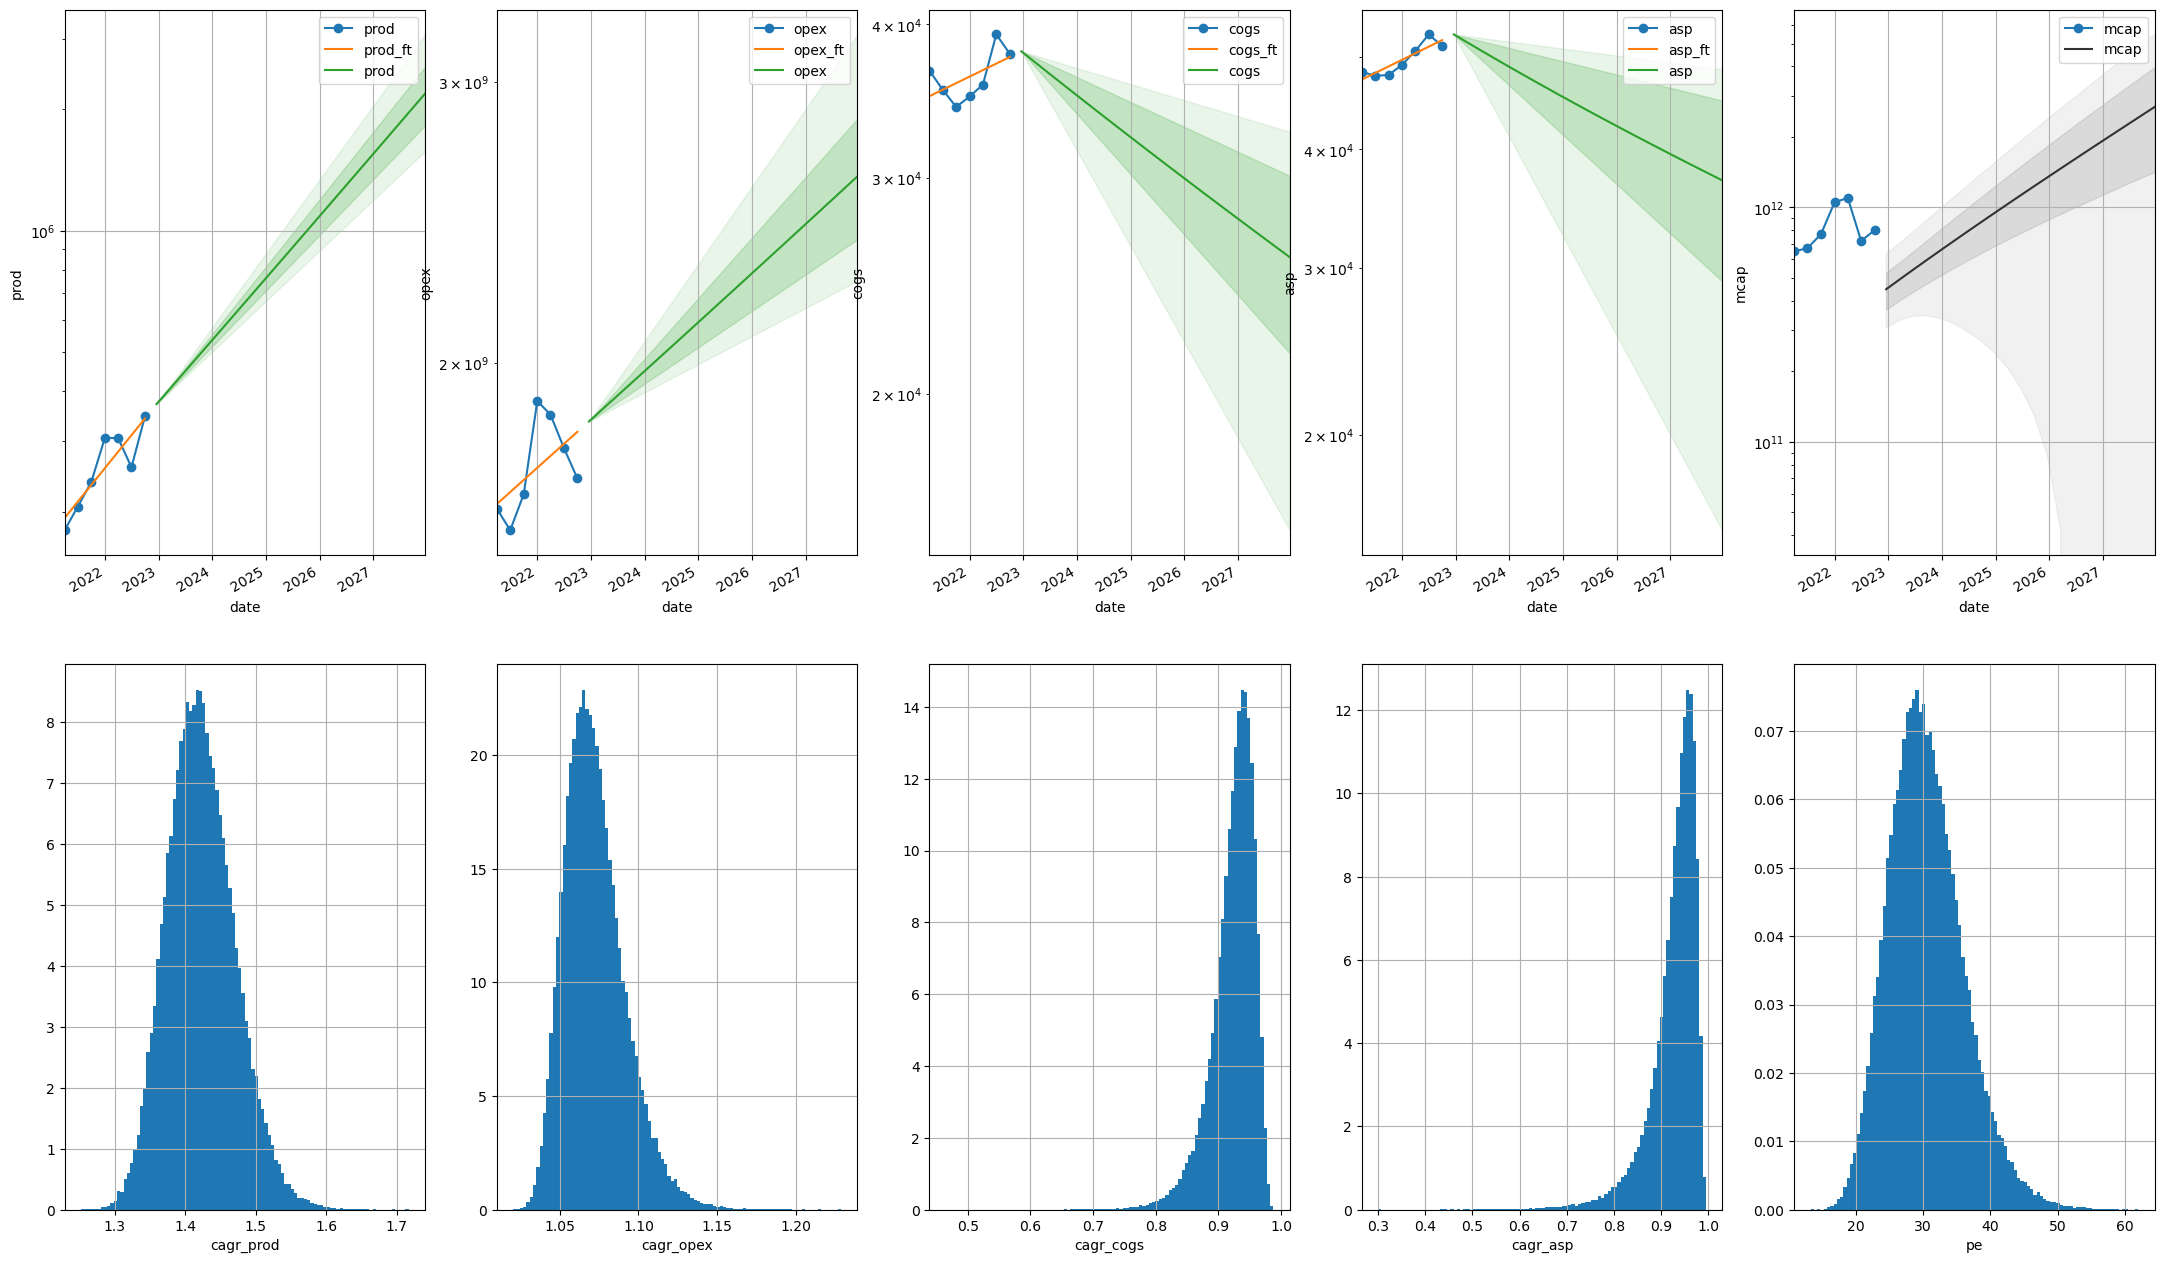
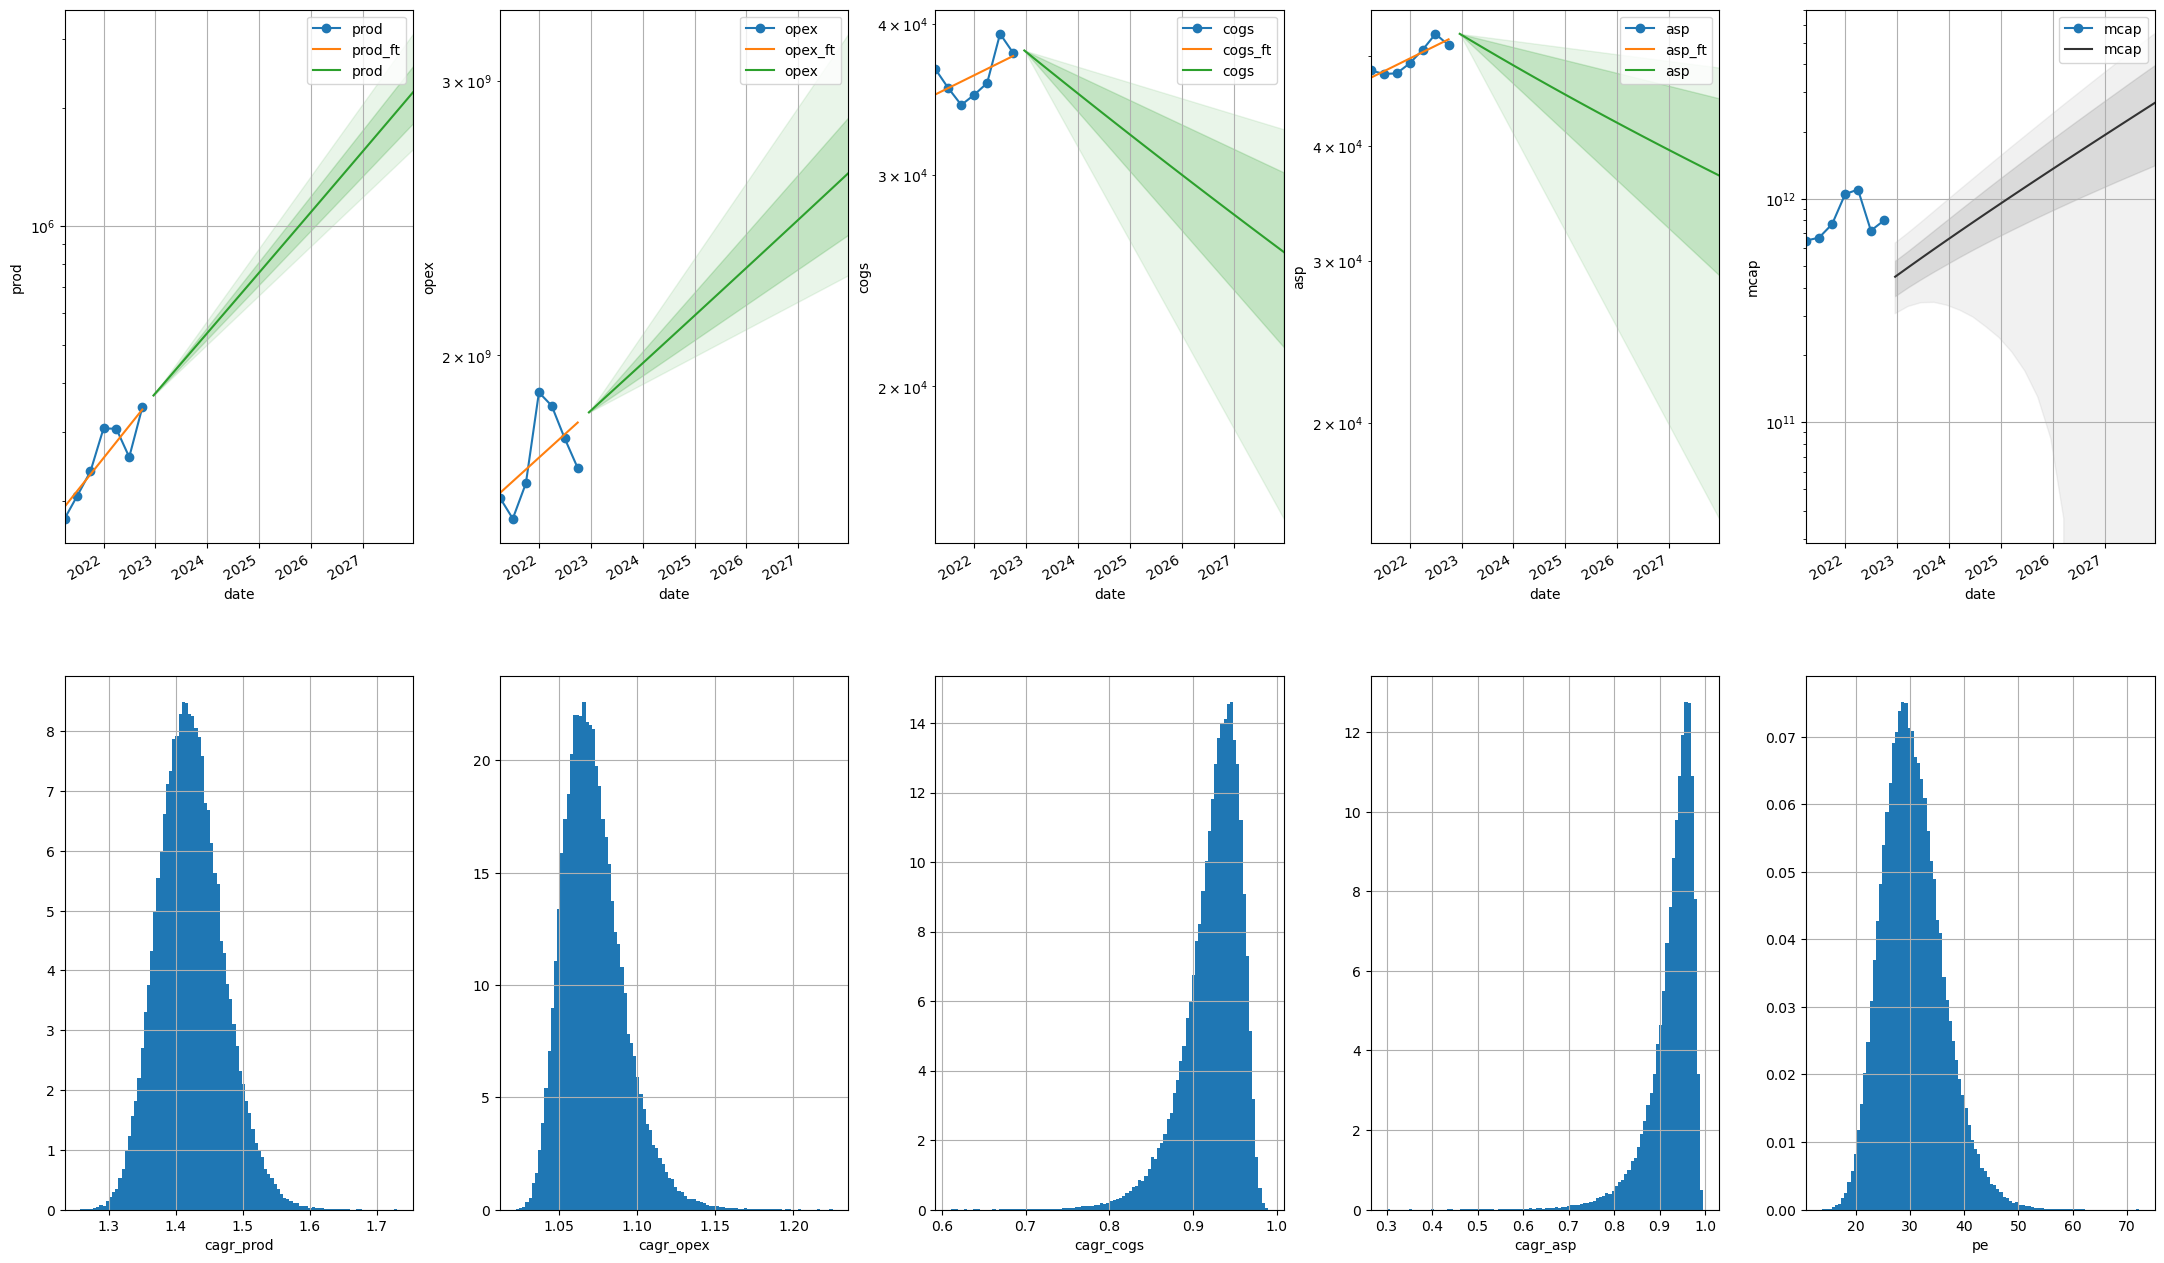
fix margins

diff --git a/main.py b/main.py
@@ -58,7 +58,7 @@ def main():
     cc = cc.reshape((2, len(pp)))
     
     fig, axs = plt.subplots(2, 5, figsize=(22,16))
-    plt.subplots_adjust(bottom=0.01, right=0.99, top=0.95, left=0.04)
+    plt.subplots_adjust(bottom=0.01, right=0.99, top=0.95, left=0.04, wspace=0.25, hspace=0.25)
 
     for ii, pi in enumerate(pp):
         plt_ts(df, axs, 0, ii, pi, cc)
